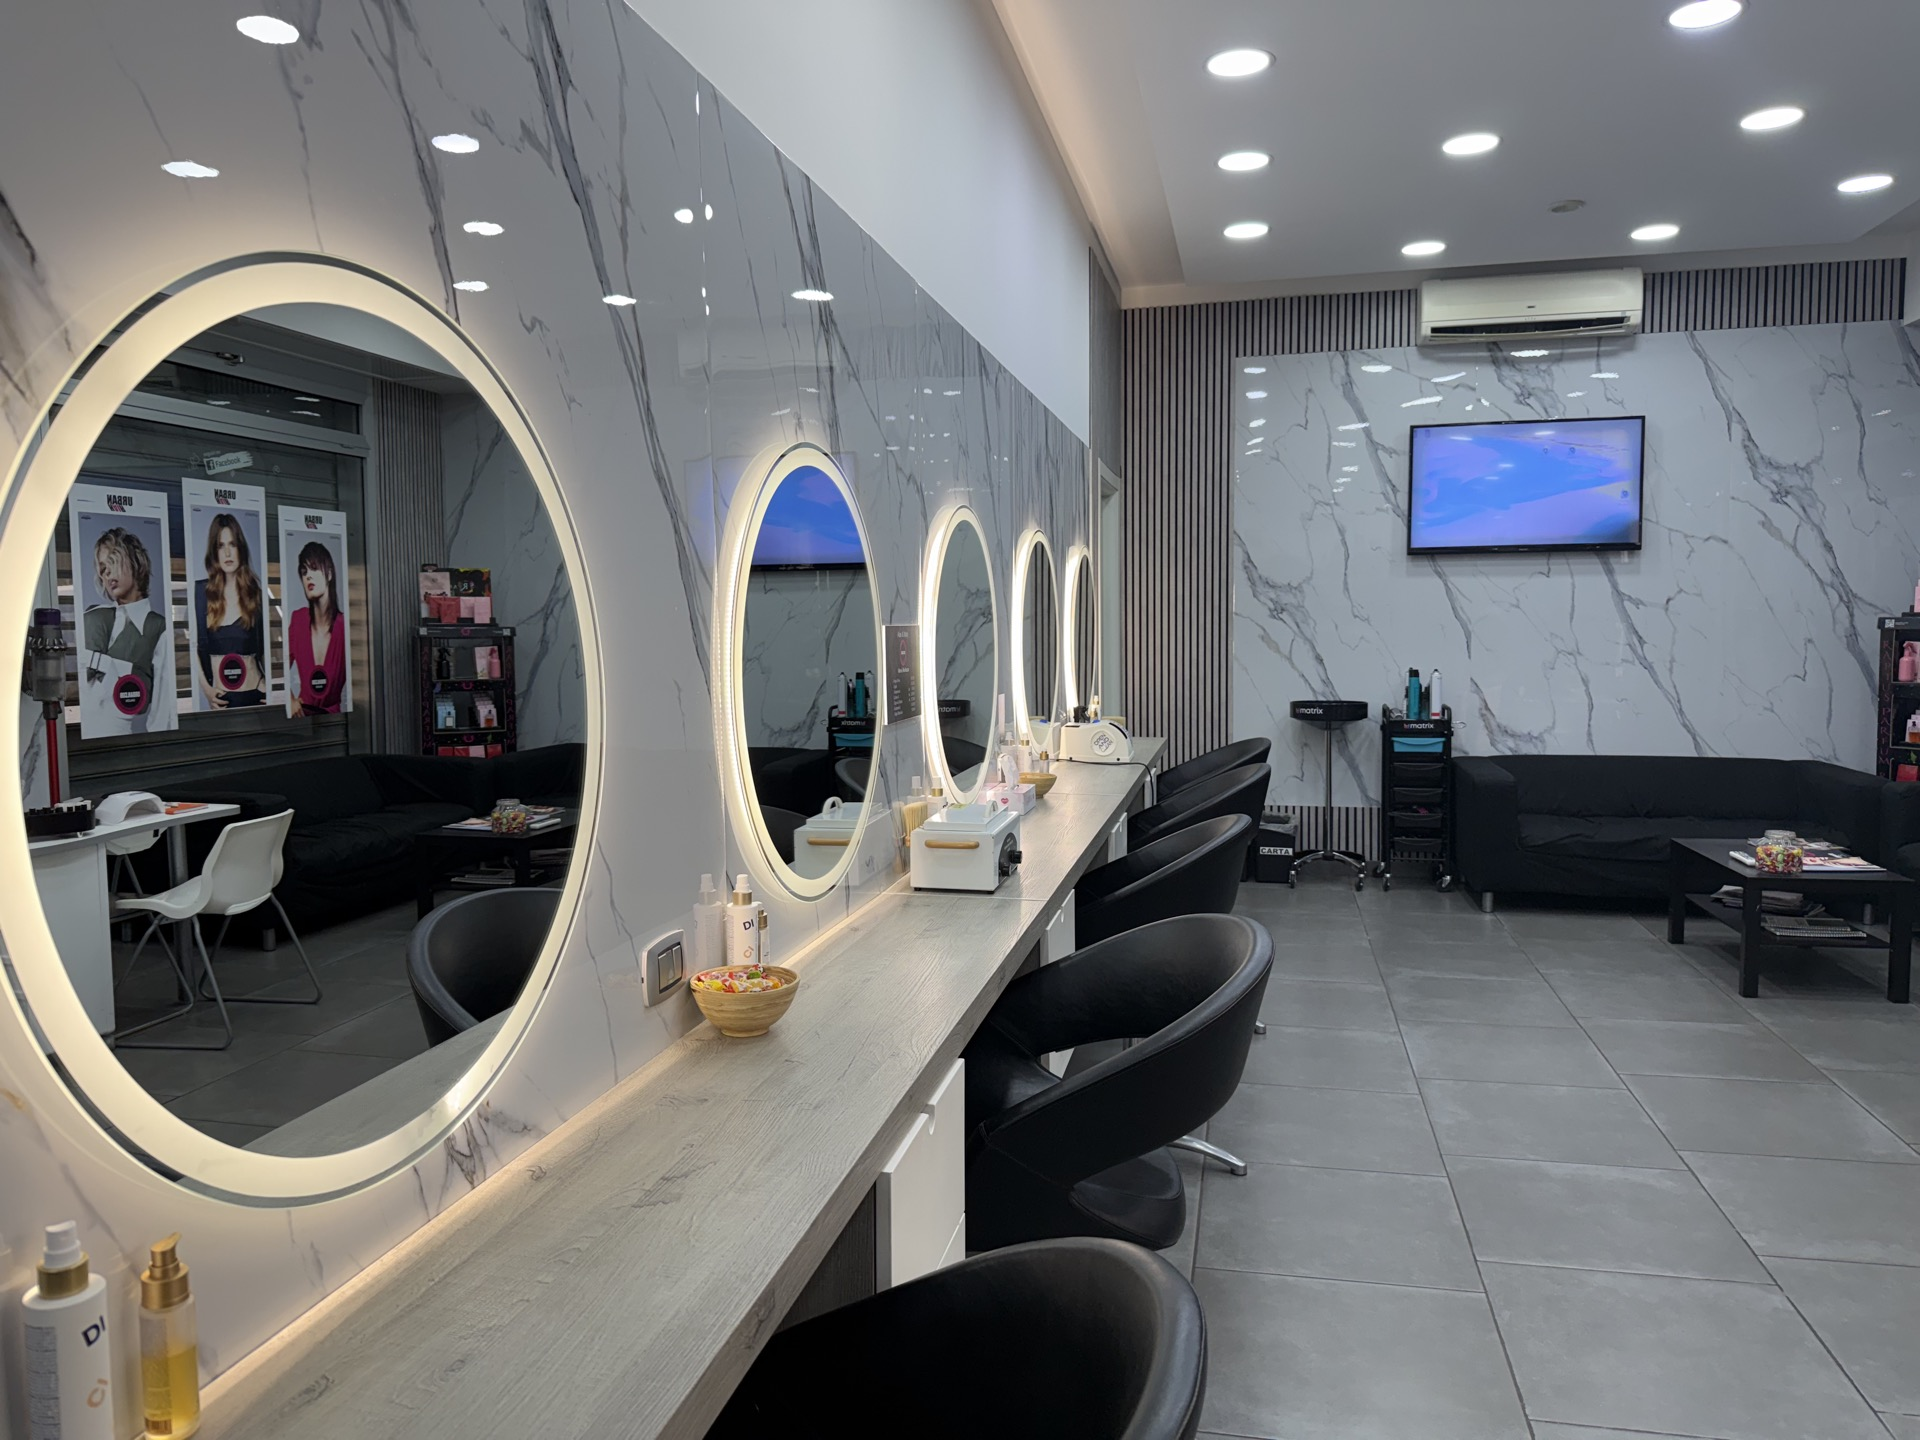
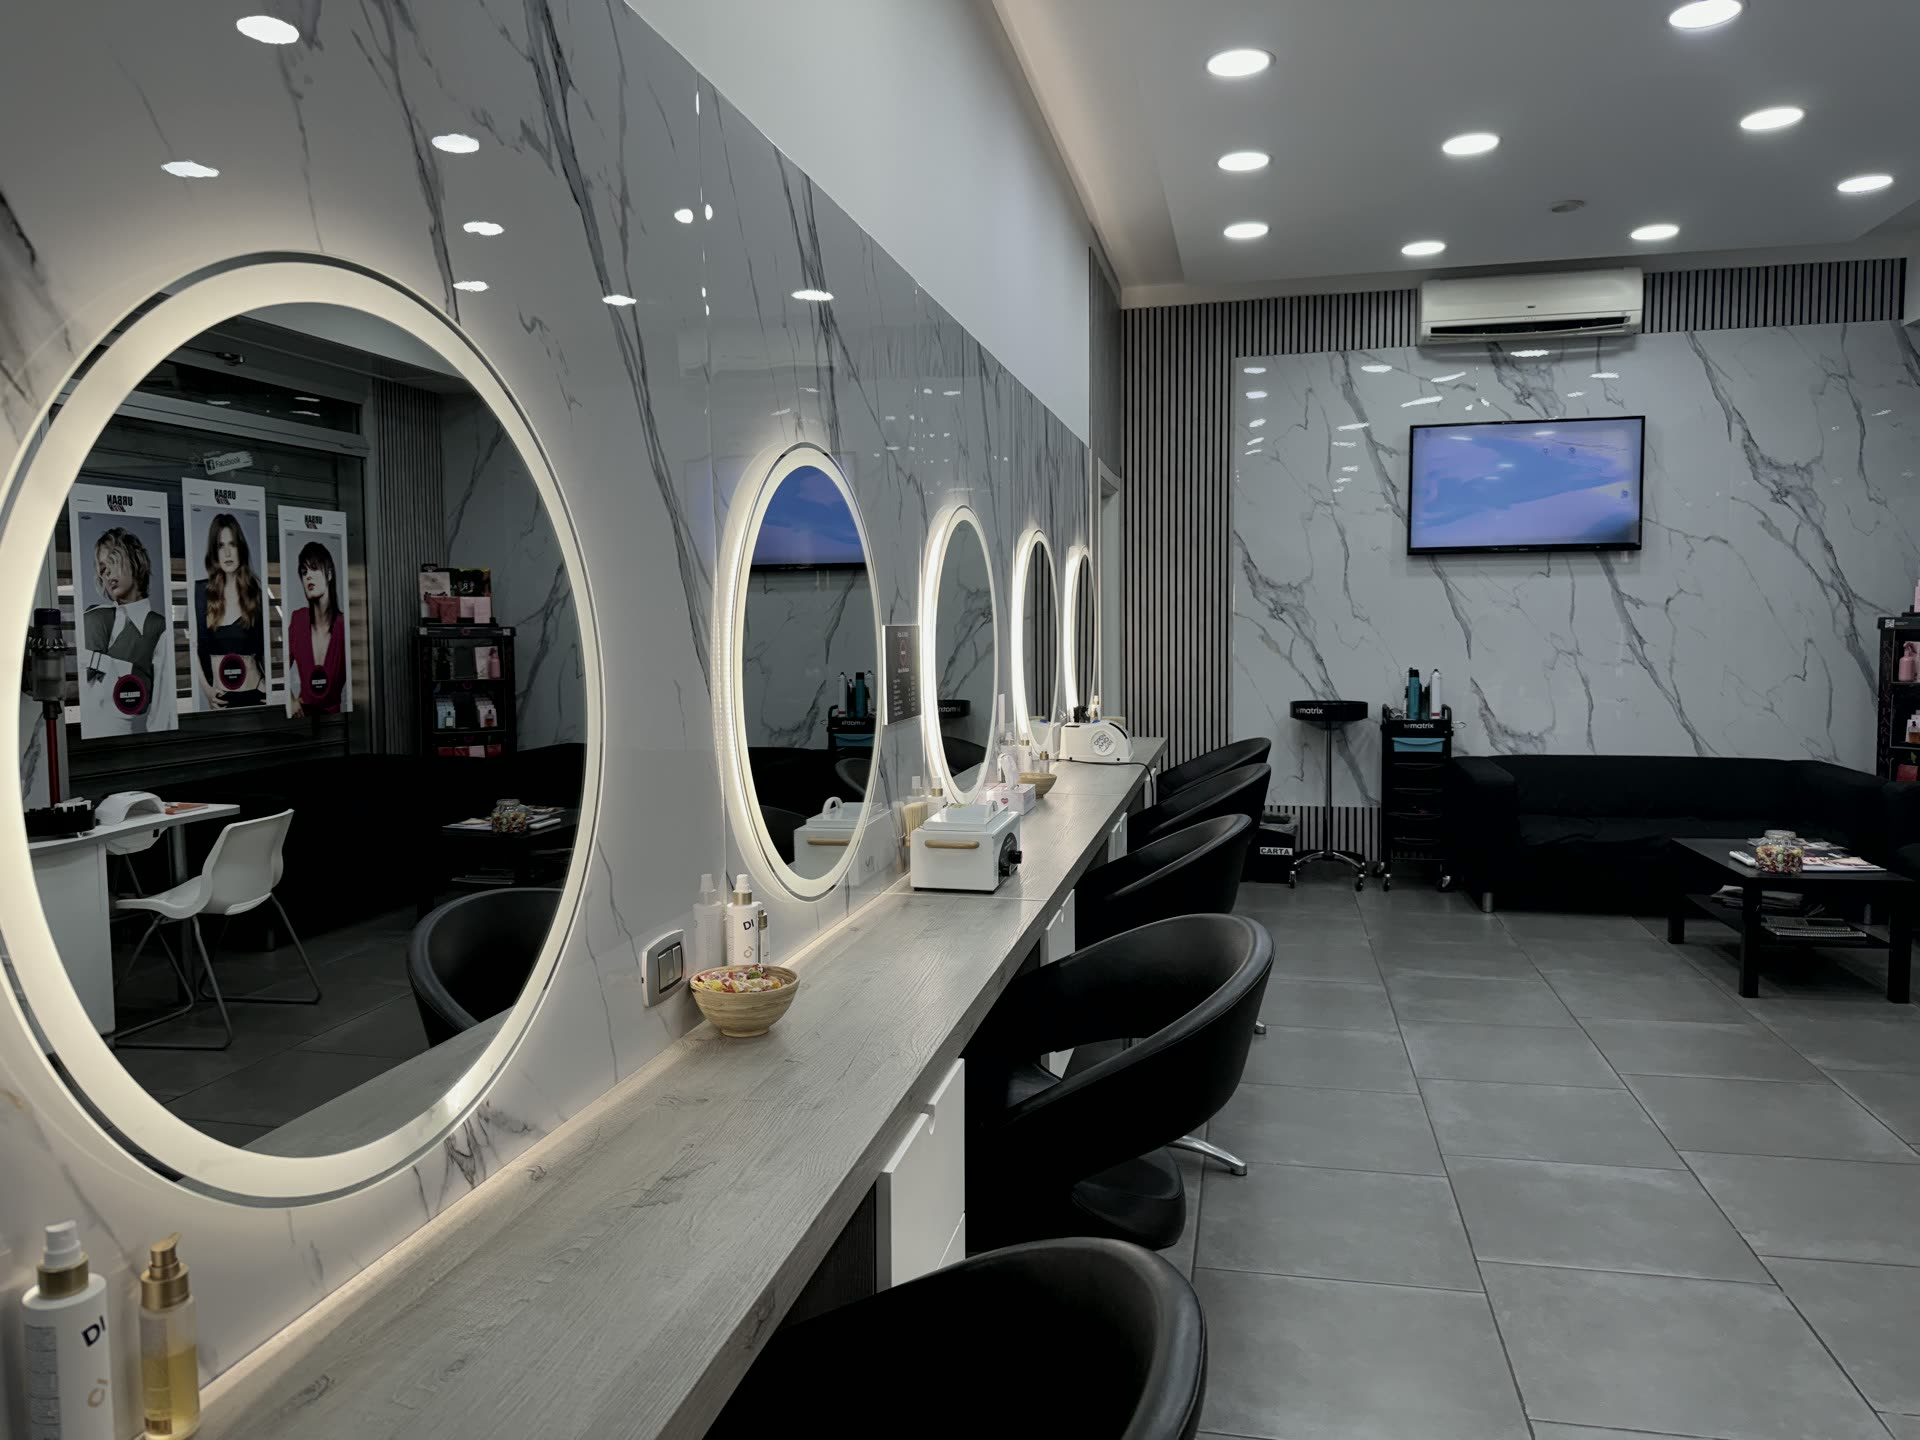
fix: sfondo uniforme, via la luce magenta dipinta
Lo sfondo aveva il magenta dipinto come luce (bloom fisso sull'hero +
un blob per sezione, alone sul segno tondo, glow su pallini e CTA):
effetto fluorescente e finto sopra una foto che ha gia la sua luce vera.

- foto rigradata alla sorgente con ffmpeg (saturation 0.60, contrast 1.05,
  brightness -0.05) invece che velata di gradienti: 466 KB -> 220 KB sull'LCP
- un solo layer fisso (foto + velo nero verticale) al posto di tre sovrapposti
- rimossi i 4 bloom magenta di sezione e i bagliori rosa su segno/pallini/CTA
- sezioni tutte sullo stesso nero: niente piani tonali alternati (effetto a bande)

Il magenta resta inchiostro (wordmark, occhielli, linee, CTA), non luce.

diff --git a/src/components/Hero.jsx b/src/components/Hero.jsx
@@ -57,7 +57,7 @@ export default function Hero() {
         >
           {TRUST_MARKERS.map((marker) => (
             <span key={marker} className="inline-flex items-center gap-2 font-display uppercase tracking-[0.13em] md:tracking-[0.18em] text-[10px]">
-              <span className="h-1.5 w-1.5 rounded-full bg-brand-magenta shadow-[0_0_14px_rgba(230,0,125,0.8)]" />
+              <span className="h-1.5 w-1.5 rounded-full bg-brand-magenta" />
               {marker}
             </span>
           ))}
@@ -67,7 +67,7 @@ export default function Hero() {
           href={WA_LINK}
           target="_blank"
           rel="noopener noreferrer"
-          className={`mt-8 inline-flex items-center gap-2.5 bg-brand-magenta hover:bg-brand-magenta-dark text-white font-semibold font-body px-8 py-3.5 rounded shadow-lg shadow-brand-magenta/25 hover:shadow-brand-magenta/40 hover:-translate-y-0.5 transition-all duration-300 delay-700 ${base} ${visible ? shown : hidden}`}
+          className={`mt-8 inline-flex items-center gap-2.5 bg-brand-magenta hover:bg-brand-magenta-dark text-white font-semibold font-body px-8 py-3.5 rounded shadow-lg shadow-black/40 hover:-translate-y-0.5 transition-all duration-300 delay-700 ${base} ${visible ? shown : hidden}`}
         >
           <svg viewBox="0 0 24 24" fill="currentColor" className="w-5 h-5" aria-hidden="true">
             <path d="M12.04 2C6.58 2 2.13 6.45 2.13 11.91c0 1.75.46 3.45 1.32 4.95L2 22l5.25-1.38c1.45.79 3.08 1.21 4.79 1.21 5.46 0 9.91-4.45 9.91-9.91C21.95 6.45 17.5 2 12.04 2zm5.8 14.01c-.24.68-1.42 1.31-1.95 1.35-.5.04-.98.22-3.3-.69-2.79-1.1-4.55-3.96-4.69-4.15-.14-.19-1.13-1.5-1.13-2.86 0-1.36.71-2.03.97-2.31.24-.26.53-.32.71-.32.18 0 .35 0 .51.01.16.01.38-.06.6.46.24.55.79 1.9.86 2.04.07.14.11.3.02.49-.09.19-.14.3-.27.46-.14.16-.29.36-.41.48-.14.14-.28.29-.12.57.16.28.71 1.17 1.53 1.9 1.05.94 1.94 1.23 2.22 1.37.28.14.44.12.6-.07.16-.19.69-.8.87-1.08.18-.28.36-.23.6-.14.24.09 1.55.73 1.81.87.26.14.44.21.5.32.06.11.06.65-.18 1.33z" />

diff --git a/src/App.jsx b/src/App.jsx
@@ -14,17 +14,17 @@ function App() {
 
   return (
     <div className="min-h-screen text-white font-body">
-      <div className="fixed inset-0 bg-cover bg-center" style={{ backgroundImage: 'url(/hero-bg.jpg)', zIndex: 0 }} />
-      {/* Legibility gradient — rich at the edges, lets the salon breathe through the middle */}
+      {/* Sfondo: la foto reale del salone, gradata (assets-source → public/hero-bg.jpg),
+          sotto un unico velo nero uniforme. Nessuna luce colorata dipinta sopra e nessun
+          piano tonale diverso per sezione: la pagina è una sola superficie. */}
       <div
-        className="fixed inset-0"
-        style={{ zIndex: 1, background: 'linear-gradient(to bottom, rgba(0,0,0,0.82) 0%, rgba(0,0,0,0.62) 42%, rgba(0,0,0,0.78) 78%, #000 100%)' }}
-      />
-      {/* Brand "stage light" — magenta bloom from lower-centre instead of a flat purple wash.
-          Kept permanently on so the hero photo always carries the glow. */}
-      <div
-        className="fixed inset-0"
-        style={{ zIndex: 1, background: 'radial-gradient(62% 48% at 50% 76%, rgba(230,0,125,0.28) 0%, rgba(230,0,125,0.08) 45%, transparent 72%)' }}
+        className="fixed inset-0 bg-cover"
+        style={{
+          zIndex: 0,
+          backgroundImage:
+            'linear-gradient(to bottom, rgba(0,0,0,0.72) 0%, rgba(0,0,0,0.58) 45%, rgba(0,0,0,0.72) 75%, #000 100%), url(/hero-bg.jpg)',
+          backgroundPosition: '50% 38%',
+        }}
       />
 
       <Header />

diff --git a/src/components/UltimiLavori.jsx b/src/components/UltimiLavori.jsx
@@ -95,14 +95,6 @@ export default function UltimiLavori() {
 
   return (
     <section className="border-t border-neutral-900 py-20 md:py-28 relative overflow-hidden">
-      {/* Stage light: bloom rises toward the top-right for this scene.
-          Radial-gradient (not filter:blur) so it costs nothing to paint. */}
-      <div
-        className="absolute inset-0 pointer-events-none"
-        style={{ background: 'radial-gradient(40% 40% at 82% 22%, rgba(230,0,125,0.10) 0%, transparent 70%)' }}
-        aria-hidden="true"
-      />
-
       <div className="relative max-w-6xl mx-auto px-5">
         <div className="mb-10 flex flex-col md:flex-row md:items-end md:justify-between gap-5">
           <div>

diff --git a/src/index.css b/src/index.css
@@ -55,14 +55,14 @@
 .scrollbar-none { scrollbar-width: none; }
 .scrollbar-none::-webkit-scrollbar { display: none; }
 
+/* Il segno riprende gli specchi tondi retroilluminati del salone: anello bianco,
+   nessun bagliore colorato. Il magenta resta solo nella linea, come inchiostro. */
 .mirror-mark {
   width: clamp(34px, 5.8vw, 64px);
   aspect-ratio: 1;
-  border: 1px solid rgba(230, 0, 125, 0.58);
+  border: 1px solid rgba(255, 255, 255, 0.72);
   border-radius: 999px;
-  box-shadow:
-    inset 0 0 0 1px rgba(255, 255, 255, 0.10),
-    0 0 28px rgba(230, 0, 125, 0.22);
+  box-shadow: inset 0 0 0 1px rgba(255, 255, 255, 0.10);
   position: relative;
 }
 .mirror-mark::after {

diff --git a/src/components/ChiSiamoContatti.jsx b/src/components/ChiSiamoContatti.jsx
@@ -53,14 +53,6 @@ export default function ChiSiamoContatti() {
 
   return (
     <section className="border-t border-neutral-900 py-20 md:py-28 relative overflow-hidden">
-      {/* Stage light: bloom shifts to the left for this scene.
-          Radial-gradient (not filter:blur) so it costs nothing to paint. */}
-      <div
-        className="absolute inset-0 pointer-events-none"
-        style={{ background: 'radial-gradient(38% 42% at 12% 30%, rgba(230,0,125,0.09) 0%, transparent 68%)' }}
-        aria-hidden="true"
-      />
-
       <div className="relative max-w-6xl mx-auto px-5">
         <div className="grid md:grid-cols-2 gap-12 md:gap-16 items-start">
 

diff --git a/src/components/Pacchetti.jsx b/src/components/Pacchetti.jsx
@@ -16,13 +16,6 @@ export default function Pacchetti() {
 
   return (
     <section className="border-t border-neutral-900 py-16 md:py-24 relative overflow-hidden">
-      {/* Stage light for this scene — radial-gradient (not filter:blur) to stay paint-cheap */}
-      <div
-        className="absolute inset-0 pointer-events-none"
-        style={{ background: 'radial-gradient(45% 35% at 50% 12%, rgba(230,0,125,0.07) 0%, transparent 68%)' }}
-        aria-hidden="true"
-      />
-
       <div className="relative max-w-6xl mx-auto px-5 w-full">
         <div className="mb-7 flex flex-col md:flex-row md:items-end md:justify-between gap-5">
           <div>

diff --git a/src/components/SocialProof.jsx b/src/components/SocialProof.jsx
@@ -5,11 +5,6 @@ import Reveal from './Reveal'
 export default function SocialProof() {
   return (
     <section className="border-t border-neutral-900 py-16 md:py-20 relative overflow-hidden">
-      <div
-        className="absolute inset-0 pointer-events-none"
-        style={{ background: 'radial-gradient(34% 34% at 78% 20%, rgba(230,0,125,0.08) 0%, transparent 70%)' }}
-        aria-hidden="true"
-      />
       <div className="max-w-6xl mx-auto px-5">
         <Reveal className="relative flex flex-col md:flex-row md:items-end md:justify-between gap-5 mb-10" y={12}>
           <div>
